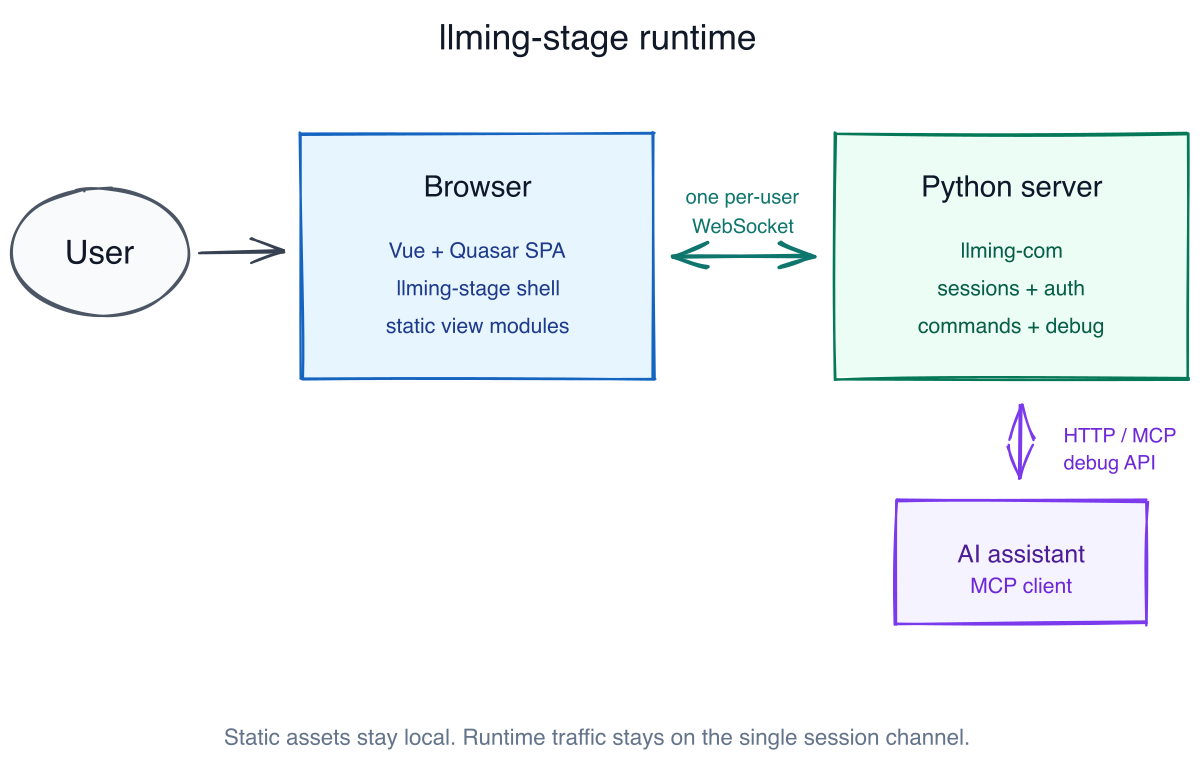
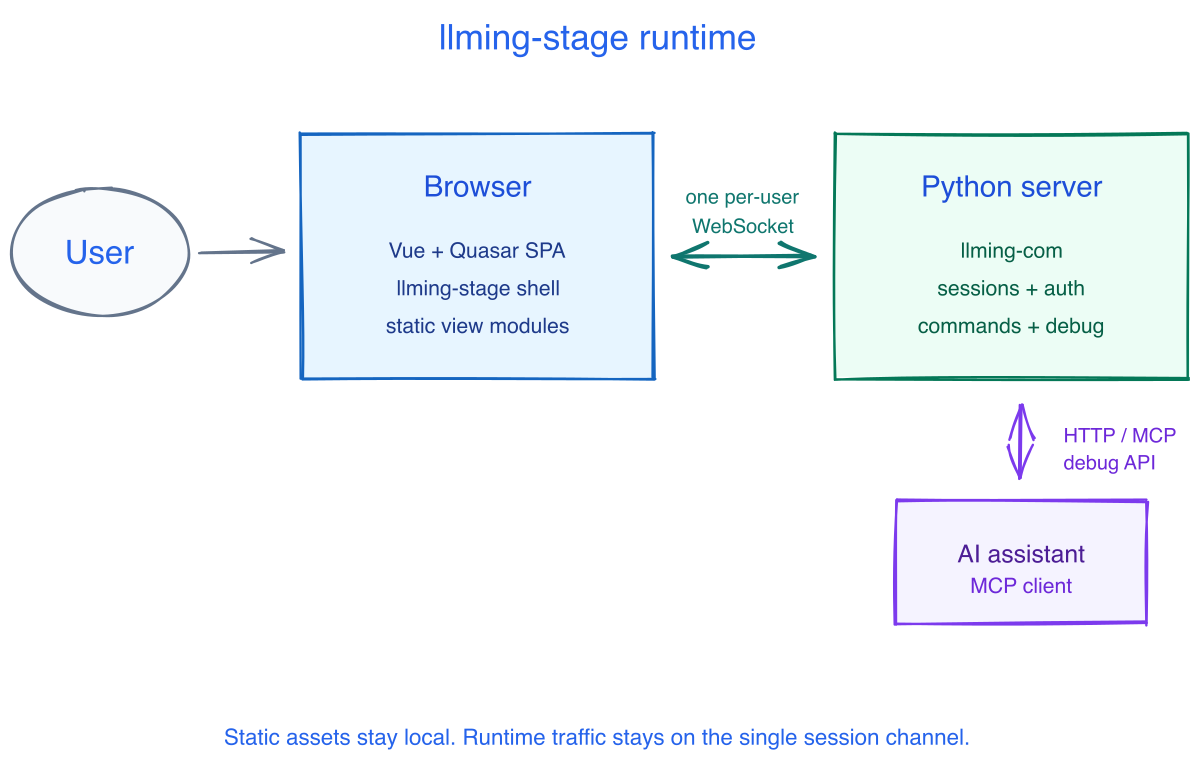
Make README diagram dark-mode friendly

diff --git a/AGENTS.md b/AGENTS.md
@@ -64,6 +64,12 @@ calling `Stage(app)` once and writing `.vue` view files.
 8. **Don't bypass the pre-commit content guard.** `--no-verify` is not
    allowed. The guard blocks customer/domain-specific terms.
 
+9. **README diagrams must work on light and dark PyPI.** Use transparent
+   backgrounds, keep the bright llming-stage palette, and avoid black or
+   near-black text/strokes. Commit the editable source next to the rendered
+   image; for Excalidraw diagrams, keep the `.excalidraw` file alongside the
+   PNG used by PyPI.
+
 ## Where to look
 
 | Topic | File |
